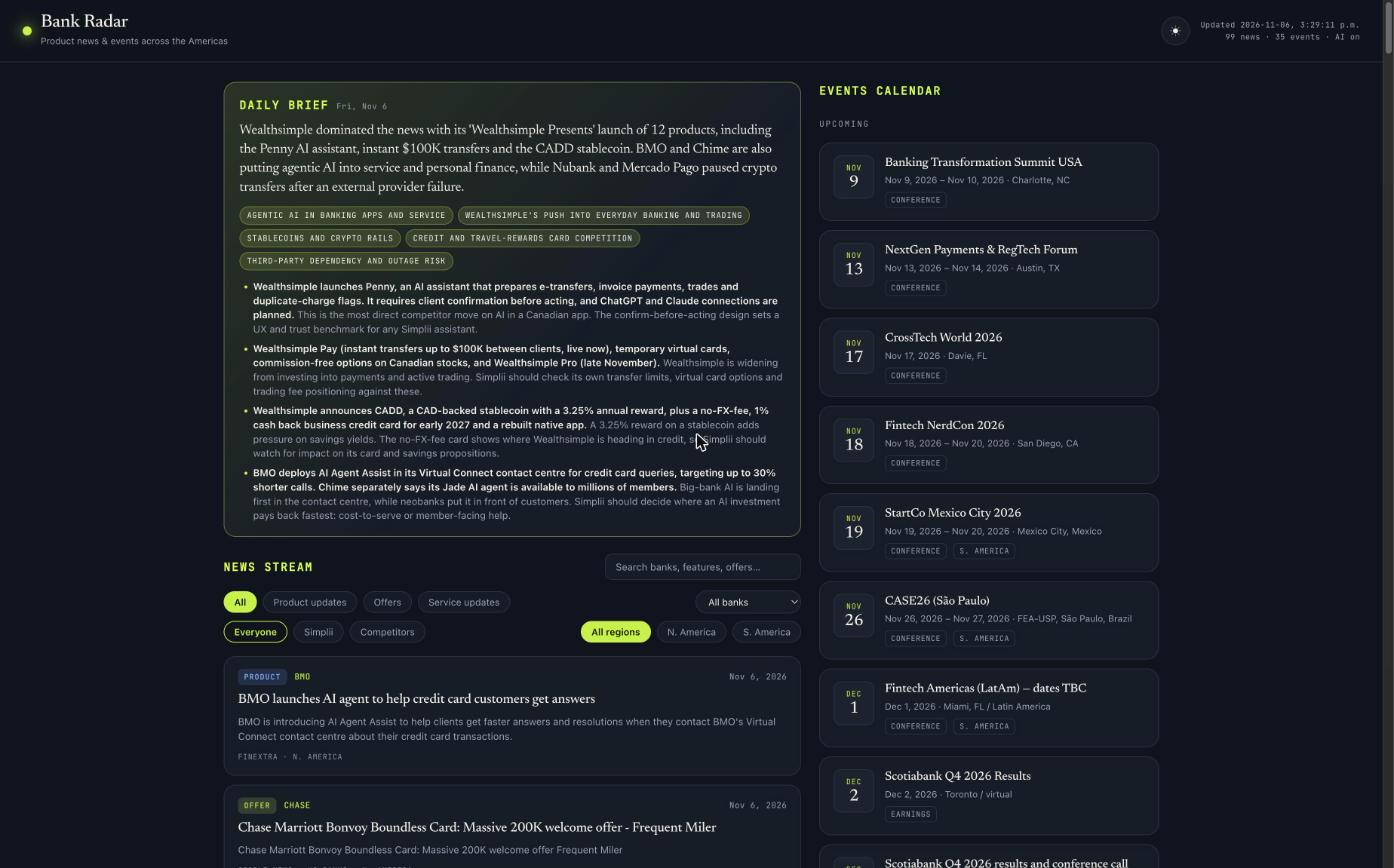
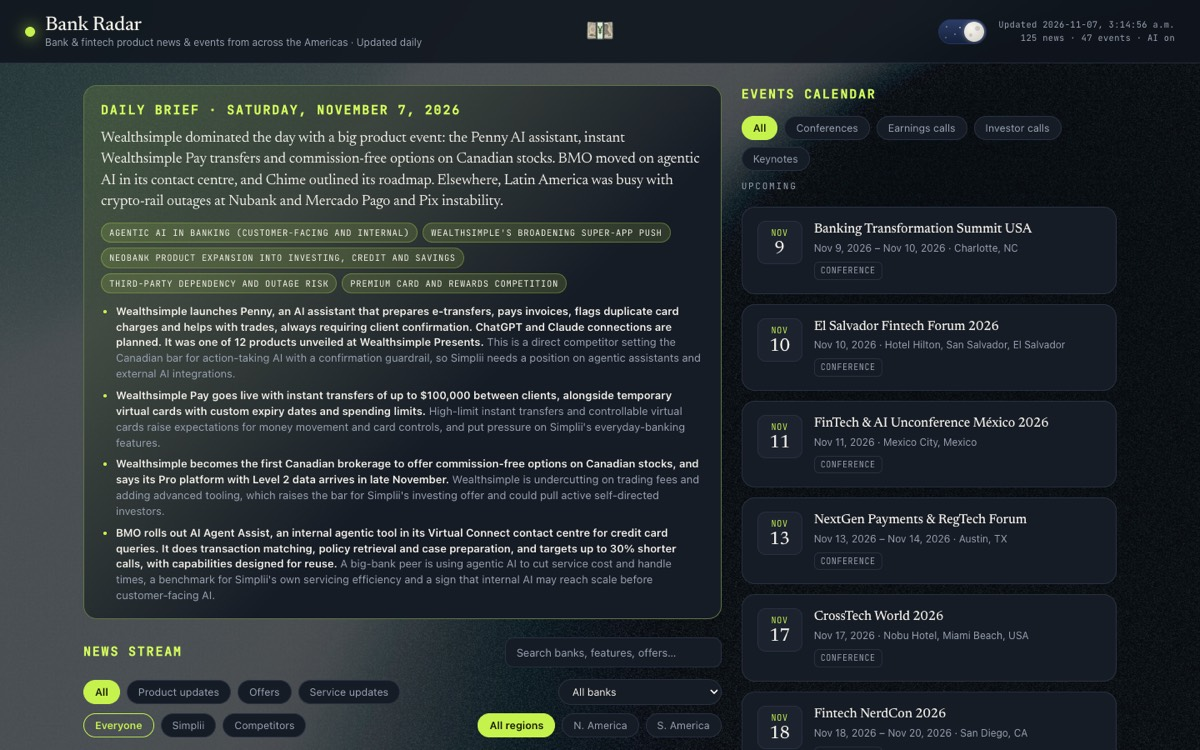
docs: update README for current pipeline and site
Live URL; translation, same-URL dedupe and out-of-Americas filtering in
the pipeline; 4:30am Eastern schedule (two UTC crons + `when` job); data
file fields; Cloudflare deploy, noindex vs link-preview bot policy; OG
image re-rendering; front-end notes. Drop the stale seed-data section
and refresh the screenshot.

diff --git a/README.md b/README.md
@@ -1,63 +1,104 @@
 # Bank Radar
 
-A dashboard for the Simplii Financial product team tracking **(1)** a filterable stream of
-product/offer/service news from banks across the Americas, and **(2)** a calendar of recent
-and upcoming banking/fintech events (conferences, keynotes, investor calls). Each day it also
-generates an AI **brief** of the common themes and the news worth reacting to.
+**Live: [bank-radar.raykhan.me](https://bank-radar.raykhan.me)**
+
+A dashboard for the Simplii Financial product team that tracks:
+
+1. **News stream:** product, offer and service news from banks and fintechs across the Americas.
+   Filter by type, bank, region, or Simplii vs competitors, and search.
+2. **Events calendar:** recent and upcoming conferences, keynotes, earnings calls and investor calls,
+   with filter chips by type.
+3. **Daily brief:** an AI summary of the common themes and the news worth reacting to.
+
+Portuguese and Spanish articles from Latin America are translated to English. Data refreshes
+daily at **4:30am Eastern**.
 
 ![Bank Radar dashboard](docs/screenshot.jpg)
 
 ## How it works
 
 ```
-RSS feeds (safety net) ─┐
-                        ├─► scripts/aggregate.mjs ─► data/news.json  ─► static dashboard
-Claude web-search ──────┘    (classify + discover)   data/events.json    (index.html)
+RSS feeds ──────► classify ──┐
+                             ├─► merge + dedupe ─► translate ─► brief ─► data/*.json ─► static site
+web search ──► discover ─────┘
+                       (all in scripts/aggregate.mjs)
 ```
 
-- **RSS** pulls every headline from the feeds in `feeds.json` — the "don't miss anything" layer.
-- **Claude** (optional, needs `ANTHROPIC_API_KEY`) then (a) classifies each RSS item into
-  `product` / `offer` / `service` and drops irrelevant noise, and (b) runs a web-search pass to
-  find **offers and events that have no RSS feed**.
-- Output is plain JSON committed to the repo. The front end is static — **no backend, no database.**
-  Deploys identically to Netlify or Vercel.
+- **RSS** pulls every headline from the feeds in `feeds.json`. It's the "don't miss anything" layer.
+- **Classify** (Claude Haiku) tags each item `product` / `offer` / `service`, sets the bank and region,
+  and drops noise, including banks based outside the Americas.
+- **Discover** (Claude Sonnet with web search) finds offers and events that have no RSS feed.
+- **Merge + dedupe** combines today's items with the existing board. The same story is merged when
+  it arrives from several sources with the same title, or as reworded copies of one article (same
+  link, overlapping headline). Different stories from one roundup article stay separate. Items older
+  than `maxAgeDays` drop off.
+- **Translate** (Claude Haiku) tags each item's language once. Non-English titles and summaries
+  become English, keeping bank and product names (Pix, Nu Smart Invest…). The original headline is
+  kept for search and shown on hover over the card's "Translated from …" label.
+- **Brief** (Claude Sonnet) writes the daily summary from the final board.
+
+Output is plain JSON committed to the repo. The front end is static: **no backend, no database.**
+Without `ANTHROPIC_API_KEY` the script still runs, but produces no board items, since raw feed
+headlines are too noisy to show unclassified.
+
+| File | Contents |
+|---|---|
+| `data/news.json` | Board items: `title`, `summary`, `url`, `source`, `bank`, `category`, `region`, `date`, `lang`; translated items also have `titleOriginal` |
+| `data/events.json` | Events: `name`, `type`, `organizer`, `location`, `region`, `date`, `endDate`, `url` |
+| `data/summary.json` | The daily brief: `tldr`, `themes`, `highlights` |
+| `data/meta.json` | Last update time and counts |
+
+## Daily refresh
+
+`.github/workflows/refresh.yml` runs the pipeline, commits the new data, and that commit redeploys
+the site.
+
+- **When:** 4:30am Eastern, year-round. GitHub's schedule is UTC-only with no daylight saving, so the
+  workflow is scheduled at both 08:30 and 09:30 UTC. A small `when` job keeps whichever one is 4:30am
+  in New York that day, so you'll see one short **skipped** run per day, which is expected. GitHub can
+  start scheduled runs several minutes late.
+- **On demand:** Actions → **Refresh dashboard data** → **Run workflow**, or `gh workflow run refresh.yml`.
+- **Setup:** add `ANTHROPIC_API_KEY` under repo Settings → Secrets and variables → Actions.
 
 ## Run locally
 
 ```bash
 npm install
-npm run selftest          # verifies the merge/dedupe/sort logic
-npm run dev               # serve the dashboard at http://localhost:3000
-ANTHROPIC_API_KEY=sk-...  npm run refresh   # pull live data (RSS-only if key omitted)
+npm run selftest                            # merge/dedupe/translation logic
+npm run dev                                 # serve at http://localhost:3000
+ANTHROPIC_API_KEY=sk-... npm run refresh    # pull live data into data/
 ```
-
-The AI key is required for useful output: Claude both classifies RSS items (raw feed headlines are too noisy to show unfiltered) and runs the web-search discovery pass. Without a key, `refresh` runs but produces no board items.
 
 ## Deploy
 
-**Either host — it's a static site, nothing to configure:**
+Static files from the repo root, no build step. The live site is served by Cloudflare and redeploys
+on every push to `main` (about 30 seconds). Any static host works.
 
-- **Vercel:** `vercel` (or import the repo). Output dir = project root.
-- **Netlify:** drag-and-drop the folder, or connect the repo. Publish dir = `.`, no build command.
+- **Search engines are kept out:** `_headers` sends `X-Robots-Tag: noindex, nofollow`, and
+  `robots.txt` blocks crawlers.
+- **Link previews still work:** `robots.txt` allows the preview bots (X, LinkedIn, Facebook, Slack,
+  Discord) so shared links unfurl with the preview image.
 
-## Keep it fresh (daily, automatic)
+## Link preview image
 
-`.github/workflows/refresh.yml` runs the aggregator every morning, commits new data, and the
-commit triggers your host's auto-redeploy. To enable:
+`og-image.jpg` (1200×630) is rendered from `docs/og-image.html`. After editing that page, re-render
+it with the command in its header comment. To refresh LinkedIn's cached preview, use
+[Post Inspector](https://www.linkedin.com/post-inspector/).
 
-1. Push this repo to GitHub.
-2. Repo **Settings → Secrets → Actions** → add `ANTHROPIC_API_KEY`.
-3. Done. Use the **Actions → Refresh dashboard data → Run workflow** button to trigger on demand.
+## Tuning
 
-## Tuning (no code)
+**`feeds.json`** (no code):
+- `feeds`: RSS sources (bank newsrooms, fintech press, Google News searches).
+- `banks`: the watchlist that steers classification and discovery.
+- `topics`, `regions`, `maxAgeDays` (default 120), `maxNewsItems` (default 150).
 
-Edit **`feeds.json`**:
-- `feeds` — add/remove RSS sources (bank newsrooms, fintech press).
-- `banks` — the watchlist that steers classification + discovery.
-- `topics`, `regions`, `maxAgeDays`, `maxNewsItems`.
+**`scripts/aggregate.mjs`**: `MODEL_FAST` (classify + translate) and `MODEL_SMART` (discovery + brief)
+set which Claude models are used.
 
-## Note on the seed data
+## Front-end notes
 
-`data/*.json` ships with real, sourced sample items (flagged **SAMPLE DATA** in the footer) so the
-dashboard is useful before the first live run. Dates/terms were gathered from secondary sources —
-verify against each bank's newsroom. The first `npm run refresh` replaces them with live data.
+- Light/dark theme toggle, with the choice saved per browser.
+- A radar loading screen shows until the data has rendered. It stays still if the visitor has
+  reduced motion turned on.
+- The header money emoji plays a "ching" and bursts emoji confetti on click. It's hidden on windows
+  narrower than 1100px, where it would collide with the subtitle.
